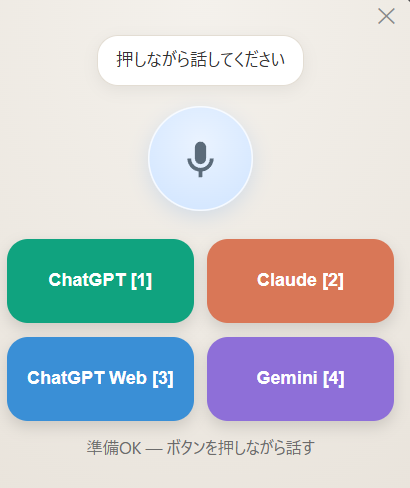
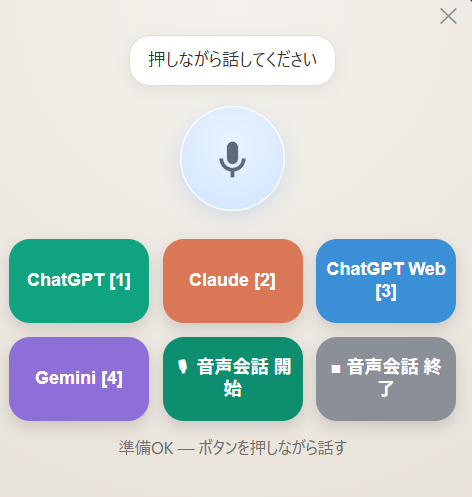
ライブ音声会話モードの起動に対応し、UIが起動しない不具合を修正
- kind="click" の宛先を追加。録音せずアプリ内のボタンを押す
- ChatGPTのライブ音声会話を開始/終了するボタンを既定に追加
- pywebviewがAPIメソッドを注入し終える前に呼び出しており、
  ボタンが一切表示されないまま固まる不具合を修正（メソッドが揃うまで待つ）
- JSエラーを画面に表示するようにし、無言で固まらないようにした
- ボタン数に応じてウィンドウの大きさを調整

diff --git a/voice_router.py b/voice_router.py
@@ -83,6 +83,16 @@ DEFAULT_CONFIG = {
         {"key": "gemini", "label": "Gemini", "color": "#8e6fd8",
          "kind": "browser_tab", "browser": "edge",
          "tab": "gemini", "url": "gemini.google.com"},
+        # kind="click" は録音せず、アプリ内のボタンを押すだけの宛先。
+        # ChatGPTのライブ音声会話を起動する（押した瞬間に会話が始まる）。
+        {"key": "gpt_voice", "label": "🎙 音声会話 開始", "color": "#0d8f6f",
+         "kind": "click", "browser": "edge",
+         "tab": "chatgpt", "url": "chatgpt.com",
+         "button": ["音声を開始する", "Start voice mode", "音声モードを開始"]},
+        {"key": "gpt_voice_end", "label": "■ 音声会話 終了", "color": "#8a8f98",
+         "kind": "click", "browser": "edge",
+         "tab": "chatgpt", "url": "chatgpt.com",
+         "button": ["音声を終了する", "End voice mode", "音声モードを終了"]},
     ],
 }
 
@@ -143,9 +153,24 @@ class Api:
         return self.load_error
 
     def targets(self):
-        """UIのボタンを設定から自動生成するための一覧。"""
-        return [{"key": t["key"], "label": t["label"], "color": t["color"]}
+        """UIのボタンを設定から自動生成するための一覧。
+        mode='action' は押しただけで実行（録音しない）、'talk' は押しながら話す。"""
+        return [{"key": t["key"], "label": t["label"], "color": t["color"],
+                 "mode": "action" if t.get("kind") == "click" else "talk"}
                 for t in TARGET_LIST]
+
+    def trigger(self, key):
+        """録音せずにアプリ内のボタンを押す（ライブ音声会話の起動など）。"""
+        target = TARGETS.get(key)
+        if target is None:
+            return {"ok": False, "msg": "不明な宛先です"}
+        try:
+            res = sender.press_button(target)
+        except Exception as e:
+            import traceback
+            traceback.print_exc()
+            return {"ok": False, "msg": f"起動エラー: {e}"}
+        return {"ok": res.ok, "msg": res.msg, "detail": res.detail}
 
     # ---------- 録音 ----------
     def start(self, key):
@@ -300,12 +325,18 @@ HTML = r"""
       b.className = 'btn';
       b.dataset.key = t.key;
       b.dataset.label = t.label;
+      b.dataset.mode = t.mode || 'talk';
       b.textContent = t.label;
       b.style.background = t.color;
       b.disabled = true;
-      b.addEventListener('pointerdown', e=>{ b.setPointerCapture(e.pointerId); press(b); });
-      b.addEventListener('pointerup',   e=>{ release(b); });
-      b.addEventListener('pointercancel', e=>{ release(b); });
+      if(b.dataset.mode === 'action'){
+        // 押すだけで実行（録音しない）
+        b.addEventListener('click', ()=>{ runAction(b); });
+      }else{
+        b.addEventListener('pointerdown', e=>{ b.setPointerCapture(e.pointerId); press(b); });
+        b.addEventListener('pointerup',   e=>{ release(b); });
+        b.addEventListener('pointercancel', e=>{ release(b); });
+      }
       wrap.appendChild(b);
     });
   }
@@ -321,9 +352,27 @@ HTML = r"""
     });
   }
 
+  // 画面が固まった原因が分からなくならないよう、JSのエラーは必ず表示する
+  window.onerror = function(msg, src, line){
+    status.textContent = 'JSエラー: ' + msg + ' (line ' + line + ')';
+  };
+
+  // pywebview は api の器を先に作り、メソッドを後から追加する。
+  // 器ができた時点で呼ぶと "not a function" で固まるため、メソッドが揃うまで待つ。
+  let initTries = 0;
+  let initDone = false;
   function init(){
-    if(!window.pywebview || !pywebview.api){ return setTimeout(init,120); }
-    pywebview.api.targets().then(list=>{
+    if(initDone) return;
+    if(!window.pywebview || !pywebview.api || typeof pywebview.api.targets !== 'function'){
+      if(++initTries > 300){ status.textContent = 'APIに接続できません'; return; }
+      return setTimeout(init, 100);
+    }
+    initDone = true;
+    pywebview.api.targets().catch(e=>{
+      status.textContent = 'targets()失敗: ' + e;
+      return null;
+    }).then(list=>{
+      if(!list){ return; }
       buildButtons(list);
       list.forEach((t,i)=>{
         if(i<4){
@@ -335,6 +384,7 @@ HTML = r"""
     });
   }
   init();
+  window.addEventListener('pywebviewready', init);
 
   // --- テンキー(グローバルホットキー)からの通知 ---
   window.hotkeyStart = function(key, label){
@@ -353,6 +403,18 @@ HTML = r"""
                         : (res && res.ok ? '送信しました' : '送信できませんでした');
     detail.textContent = (res && res.detail) ? res.detail : '';
   };
+
+  function runAction(btn){
+    if(!ready || active) return;
+    status.innerHTML = '<b>'+btn.dataset.label+'</b> を起動中…';
+    detail.textContent = '';
+    bubble.textContent = '…';
+    pywebview.api.trigger(btn.dataset.key).then(res=>{
+      status.textContent = (res && res.msg) ? res.msg : '起動できませんでした';
+      detail.textContent = (res && res.detail) ? res.detail : '';
+      bubble.textContent = (res && res.ok) ? '音声会話を開始しました' : '押しながら話してください';
+    });
+  }
 
   function press(btn){
     if(!ready || active) return;
@@ -398,6 +460,14 @@ def setup_hotkeys(api, get_window):
             t = TARGET_LIST[idx]
             try:
                 win = get_window()
+                if t.get("kind") == "click":
+                    # 押すだけの宛先は、キーを離したときに1回だけ実行する
+                    if action == "up":
+                        res = api.trigger(t["key"])
+                        if win:
+                            win.evaluate_js(
+                                f"window.hotkeyResult && hotkeyResult({json.dumps(res)})")
+                    continue
                 if action == "down":
                     api.start(t["key"])
                     if win:
@@ -433,7 +503,9 @@ if __name__ == "__main__":
 
     _window = webview.create_window(
         "Voice Router", html=HTML, js_api=api,
-        width=300, height=300 + 66 * ((len(TARGET_LIST) + 1) // 2),
+        width=300 if len(TARGET_LIST) <= 4 else 340,
+        height=245 + 66 * ((len(TARGET_LIST) + (3 if len(TARGET_LIST) > 4 else 2) - 1)
+                           // (3 if len(TARGET_LIST) > 4 else 2)),
         frameless=True, easy_drag=True,
         on_top=True, background_color="#EAE6E1",
     )

diff --git a/sender.py b/sender.py
@@ -509,7 +509,96 @@ def edge_select_tab(match, url_match=None, browser="edge"):
 # ============================================================
 def _is_browser(target):
     """ブラウザのタブが対象か（旧名 edge_tab も受け付ける）。"""
-    return target.get("kind") in ("browser_tab", "edge_tab")
+    return target.get("kind") in ("browser_tab", "edge_tab") or (
+        target.get("kind") == "click" and bool(target.get("url") or target.get("tab")))
+
+
+def find_button(win_ctrl, names, page_only=False, timeout=6.0):
+    """名前が一致するボタンを探す（完全一致 → 部分一致の順）。"""
+    wanted = [n.strip().lower() for n in names if n]
+    deadline = time.time() + timeout
+    while time.time() < deadline:
+        exact, partial = [], []
+
+        def walk(x, d=0):
+            if d > 28:
+                return
+            try:
+                ch = x.GetChildren()
+            except Exception:
+                return
+            for y in ch:
+                try:
+                    if y.ControlTypeName in ("ButtonControl", "MenuItemControl", "ListItemControl"):
+                        nm = (y.Name or "").strip().lower()
+                        if nm:
+                            if nm in wanted:
+                                exact.append(y)
+                            elif any(w in nm for w in wanted):
+                                partial.append(y)
+                    walk(y, d + 1)
+                except Exception:
+                    pass
+
+        scopes = find_page_documents(win_ctrl) if page_only else []
+        for sc in (scopes[:2] or [win_ctrl]):
+            walk(sc)
+        for group in (exact, partial):
+            for b in group:
+                try:
+                    if b.IsEnabled:
+                        return b
+                except Exception:
+                    return b
+        time.sleep(0.3)
+    return None
+
+
+def press_button(target):
+    """設定で指定されたボタンを押す（ライブ音声モードの起動など）。
+    文字を送るのではなく、アプリ内のボタンを1回クリックする種類の宛先。"""
+    label = target.get("label", "?")
+    names = target.get("button") or []
+    if isinstance(names, str):
+        names = [names]
+    if not names:
+        return SendResult(False, f"✗ {label}: 押すボタンが設定されていません")
+
+    if _is_browser(target):
+        hwnd, info = edge_select_tab(target.get("tab", ""), target.get("url"),
+                                     target.get("browser", "edge"))
+        if hwnd is None:
+            return SendResult(False, f"✗ {label} のタブが見つかりません")
+    else:
+        hwnd = find_window_by_proc(target["proc"])
+        if hwnd is None:
+            return SendResult(False, f"✗ {label} のウィンドウが見つかりません")
+
+    focus_window(hwnd)
+    time.sleep(0.4)
+
+    btn = find_button(uia_window(hwnd), names, page_only=_is_browser(target))
+    if btn is None:
+        return SendResult(False, f"✗ {label}: ボタンが見つかりません",
+                          f"探した名前: {' / '.join(names)}")
+
+    pressed = False
+    ip = _pattern(btn, auto.PatternId.InvokePattern)
+    if ip is not None:
+        try:
+            ip.Invoke()
+            pressed = True
+        except Exception:
+            pass
+    if not pressed:
+        try:
+            btn.Click(simulateMove=False)
+            pressed = True
+        except Exception:
+            pass
+    if not pressed:
+        return SendResult(False, f"✗ {label}: ボタンを押せませんでした")
+    return SendResult(True, f"✓ {label} を起動しました")
 
 
 class SendResult:

diff --git a/README.md b/README.md
@@ -47,6 +47,15 @@ Geminiにも……   → ブラウザのタブを探す → クリック → マ
 テンキー 2 → Claude       テンキー 4 → Gemini
 ```
 
+### ライブ音声会話の起動
+
+`🎙 音声会話 開始` を押すと、**ChatGPT のライブ音声会話モード**（声で対話するモード）がワンクリックで始まります。`■ 音声会話 終了` で終了します。
+
+作業中でもタブが自動で切り替わるので、ChatGPTの画面を探す必要はありません。
+
+> ライブ音声会話に対応しているのは、現時点では **ChatGPT（ブラウザ版）のみ**です。
+> Claude と Gemini の音声機能は文字起こし（話した内容を入力欄に入れる）だけで、Windows では音声会話モードが提供されていません。そちらは Voice Router の通常のボタンで代替できます。
+
 ---
 
 ## こんな人向けです
@@ -123,6 +132,13 @@ pip install -r requirements.txt
 
 - `kind: "proc"` … デスクトップアプリ。`proc` にプロセス名（タスクマネージャーの「詳細」タブで確認できます）
 - `kind: "browser_tab"` … ブラウザのタブ。`tab` はタブ名の一部、`url` はURLの一部
+- `kind: "click"` … 録音せず、アプリ内のボタンを押すだけ。`button` に押したいボタン名を並べます（音声会話の起動など）
+
+```json
+{ "key": "gpt_voice", "label": "🎙 音声会話 開始", "color": "#0d8f6f",
+  "kind": "click", "browser": "edge", "tab": "chatgpt", "url": "chatgpt.com",
+  "button": ["音声を開始する", "Start voice mode"] }
+```
 
 > タブ名は会話のタイトルに変わってしまうため、`url` を指定しておくと確実に見つけられます。
 
